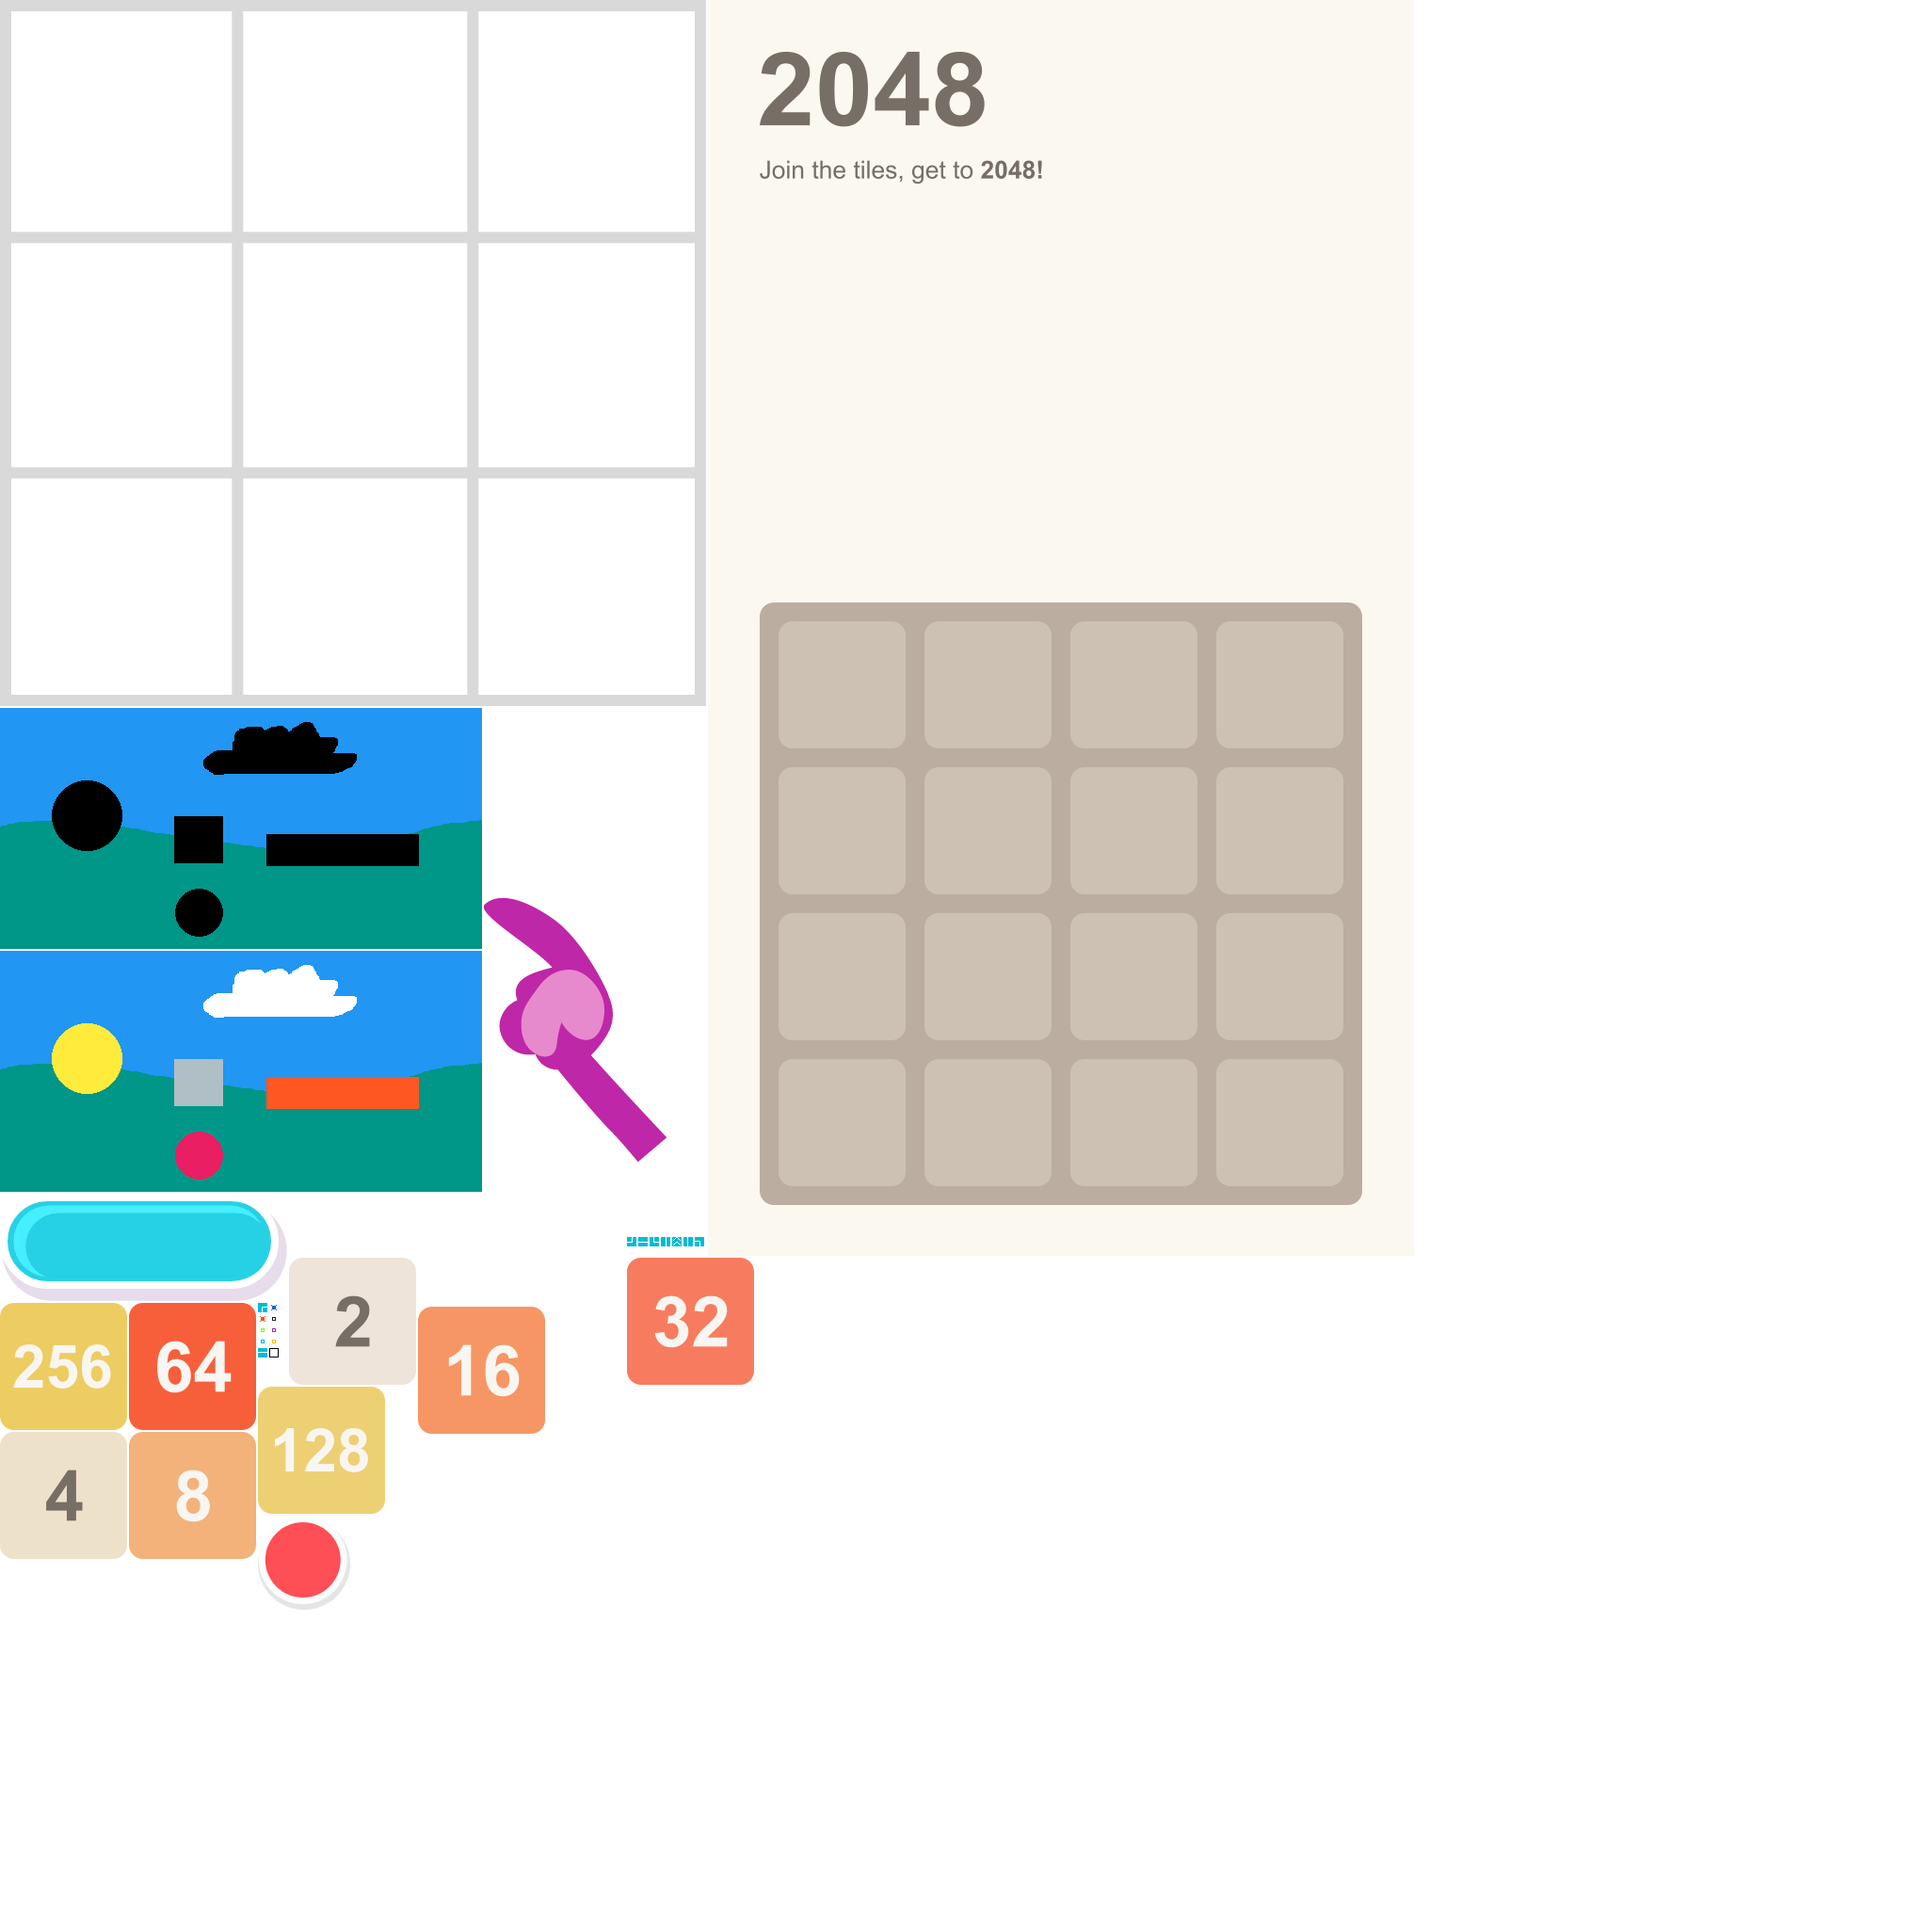
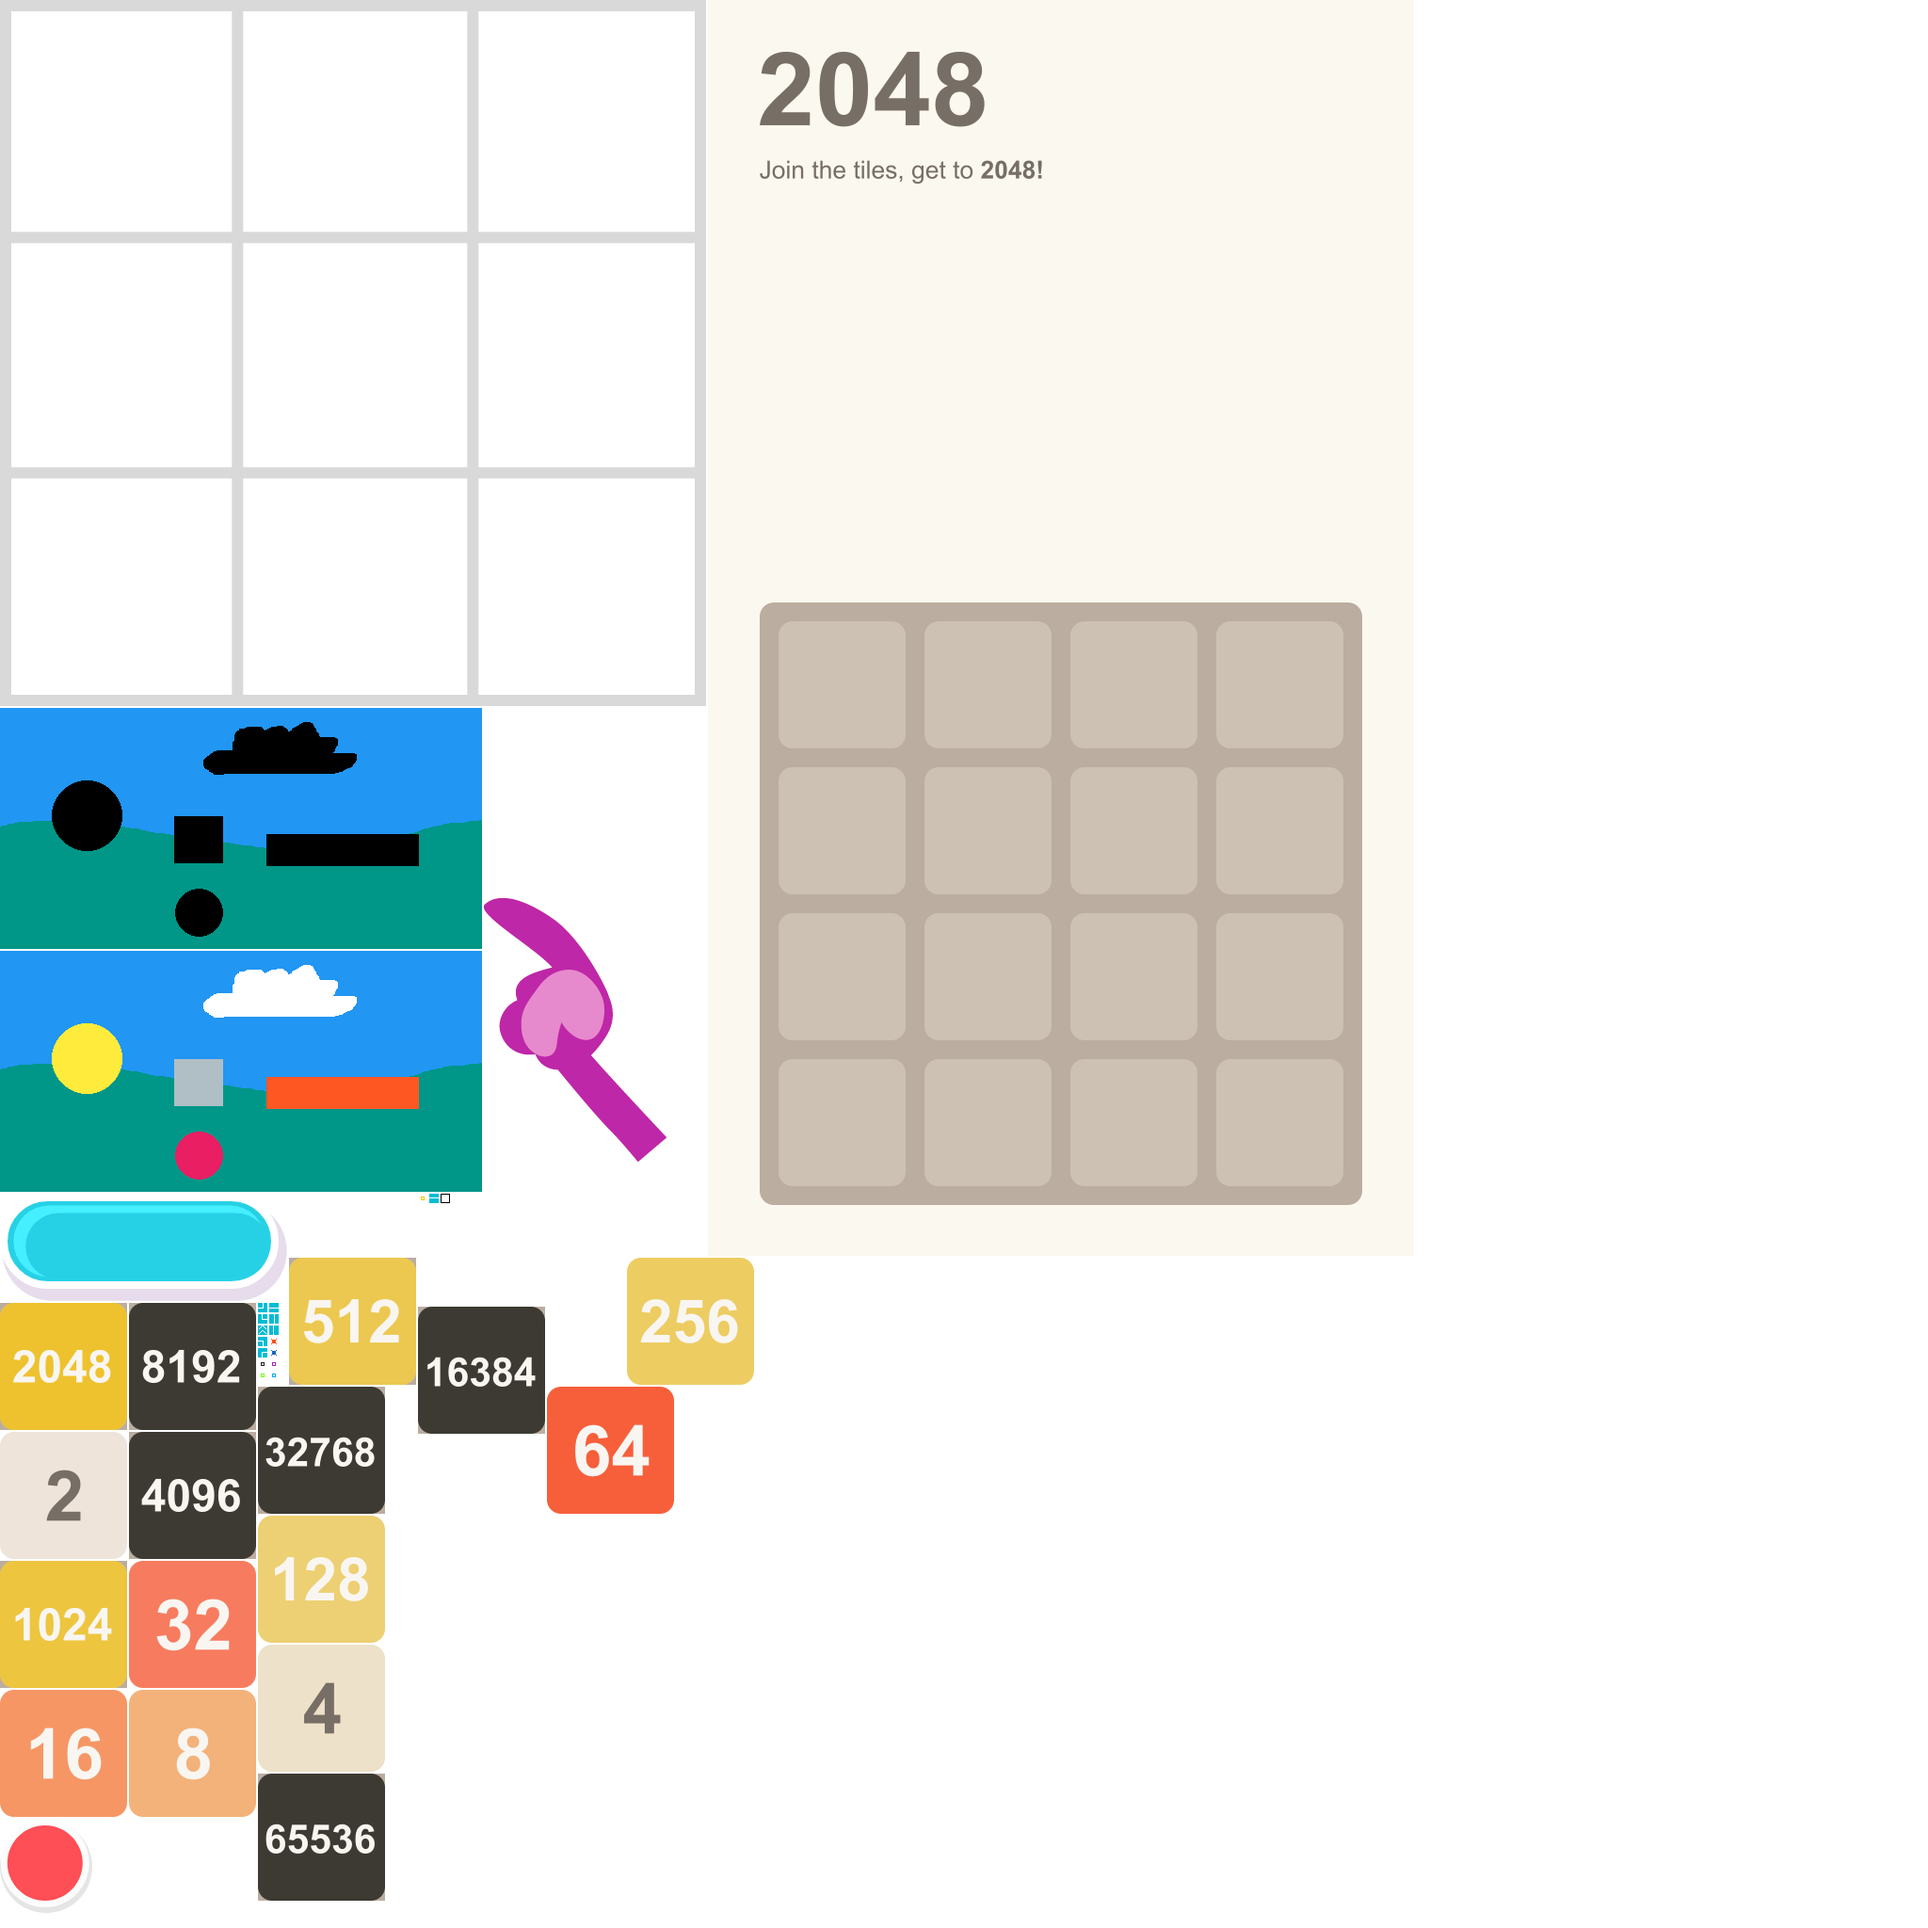
added other tiles

Changed region(s): [[0.0, 0.625, 0.4062, 1.0]]

diff --git a/Assets/Scripts/Daily/ViewLogics/TileGameSubViewLogic.cs b/Assets/Scripts/Daily/ViewLogics/TileGameSubViewLogic.cs
@@ -2,6 +2,7 @@ using FairyGUI;
 using Daily;
 using System.Collections.Generic;
 using UnityEngine;
+using DG.Tweening;
 
 public class TileGameSubViewLogic
 {
@@ -130,13 +131,11 @@ public class TileGameSubViewLogic
 
                 tile.position = ConvertCoordinates(position);
 
-                // TODO : is there a better solution?
+                // TODO : is there a better solution? => use callbacks, be aware of what can continue running and what runs when finish
+                // tile.TweenMove(ConvertCoordinates(position), 0.1f).OnComplete(() => tile.m_Value.selectedIndex = (int)Mathf.Log(number, 2));
                 tile.TweenMove(ConvertCoordinates(position), 0.1f);
-
                 tile.m_Value.selectedIndex = (int)Mathf.Log(number, 2);
 
-                var transition = tile.GetTransition("Show");
-                transition.Play();
 
                 return;
             }
@@ -145,8 +144,10 @@ public class TileGameSubViewLogic
 
     public void DestroyTile(UI_SingleTile tile)
     {
-        // TODO : is there a better solution?
+        // TODO : is there a better solution? => use callbacks, be aware of what can continue running and what runs when finish
+        // tile.TweenMove(tile.position, 0.1f).OnComplete(() => tile.m_Value.selectedIndex = (int)Value.Empty);
         tile.TweenMove(tile.position, 0.1f);
+
         tile._active = false;
         tile._number = 0;
         tile._boardPosition = new Vector2(-1, -1);
